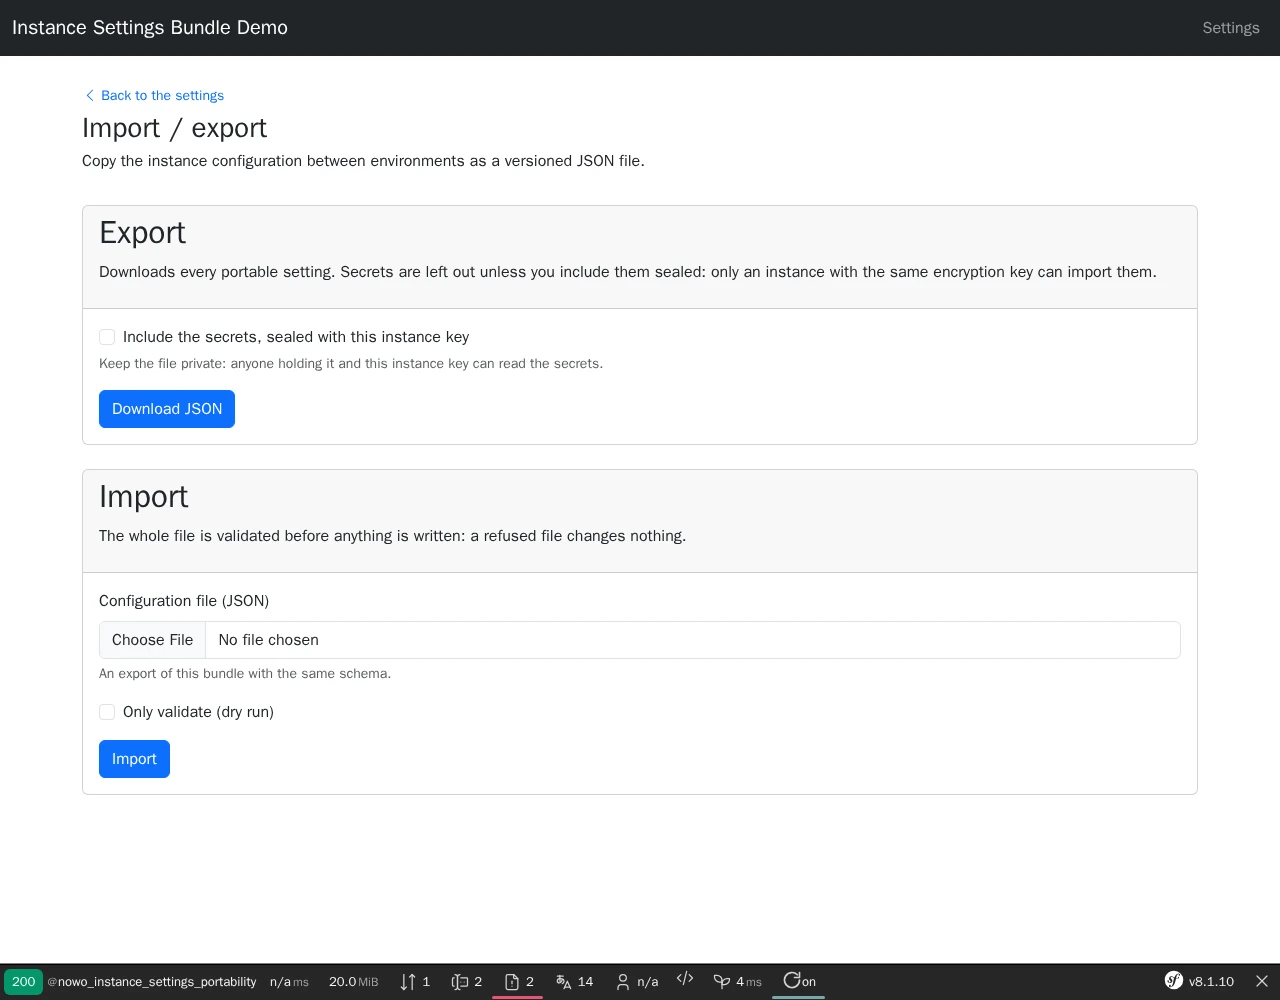
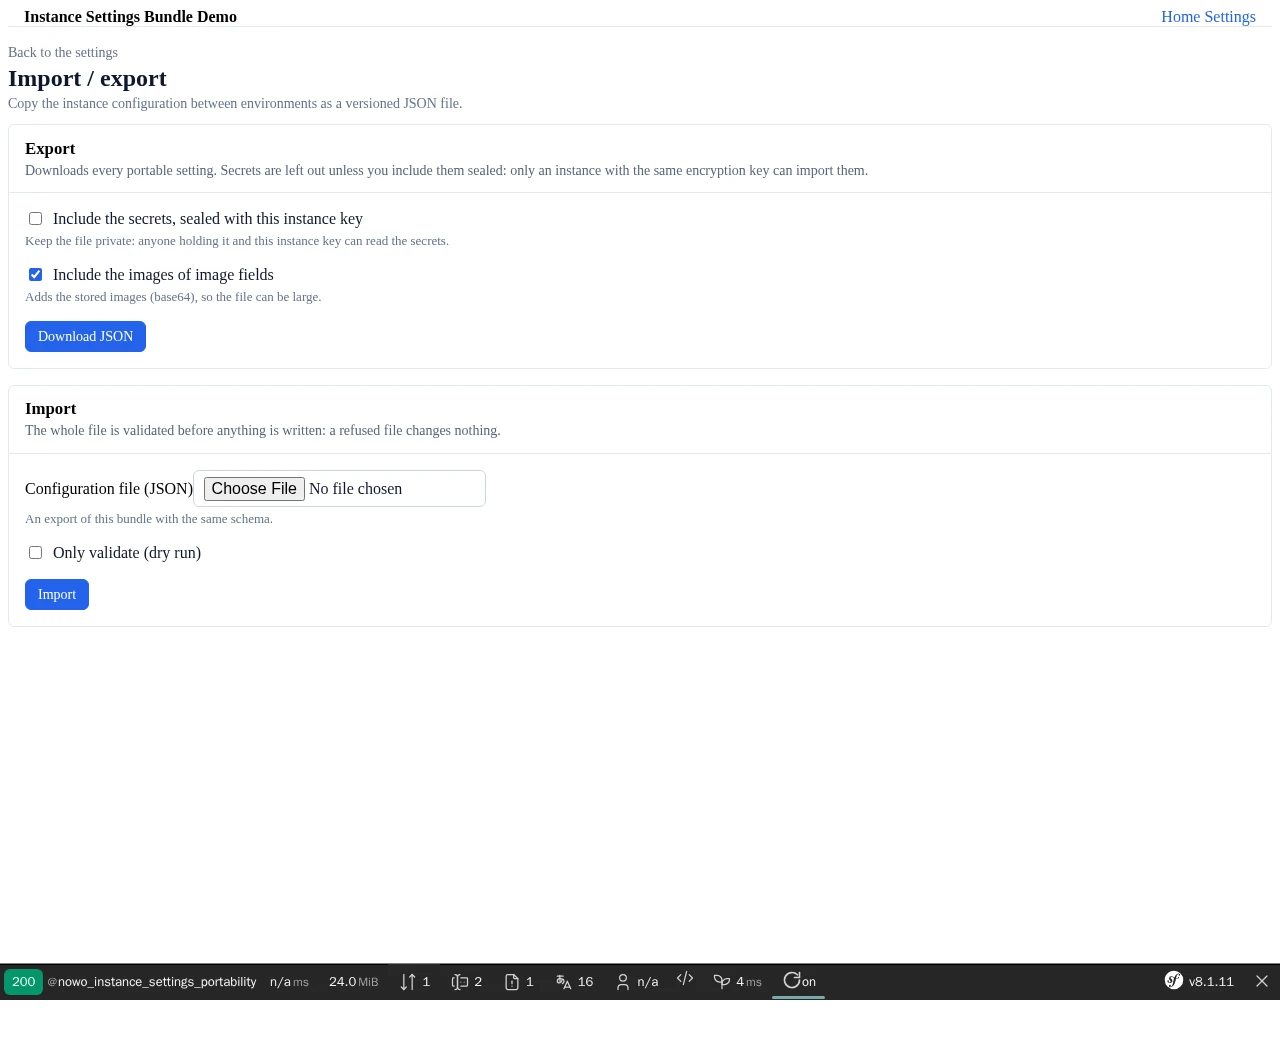
chore(docs): refresh demo screenshots on the UiKit base style

Changed region(s): [[0.0, 0.0, 1.0, 0.682], [0.0, 0.899, 1.0, 1.0], [0.0625, 0.713, 0.1562, 0.806]]

diff --git a/docs/CHANGELOG.md b/docs/CHANGELOG.md
@@ -30,6 +30,10 @@ All notable changes to this project are documented here. The format follows
 
 ## [Unreleased]
 
+### Changed
+
+- docs: demo screenshots regenerated on the UiKit base style
+
 ## [1.14.1] - 2026-11-13
 
 ### Fixed
